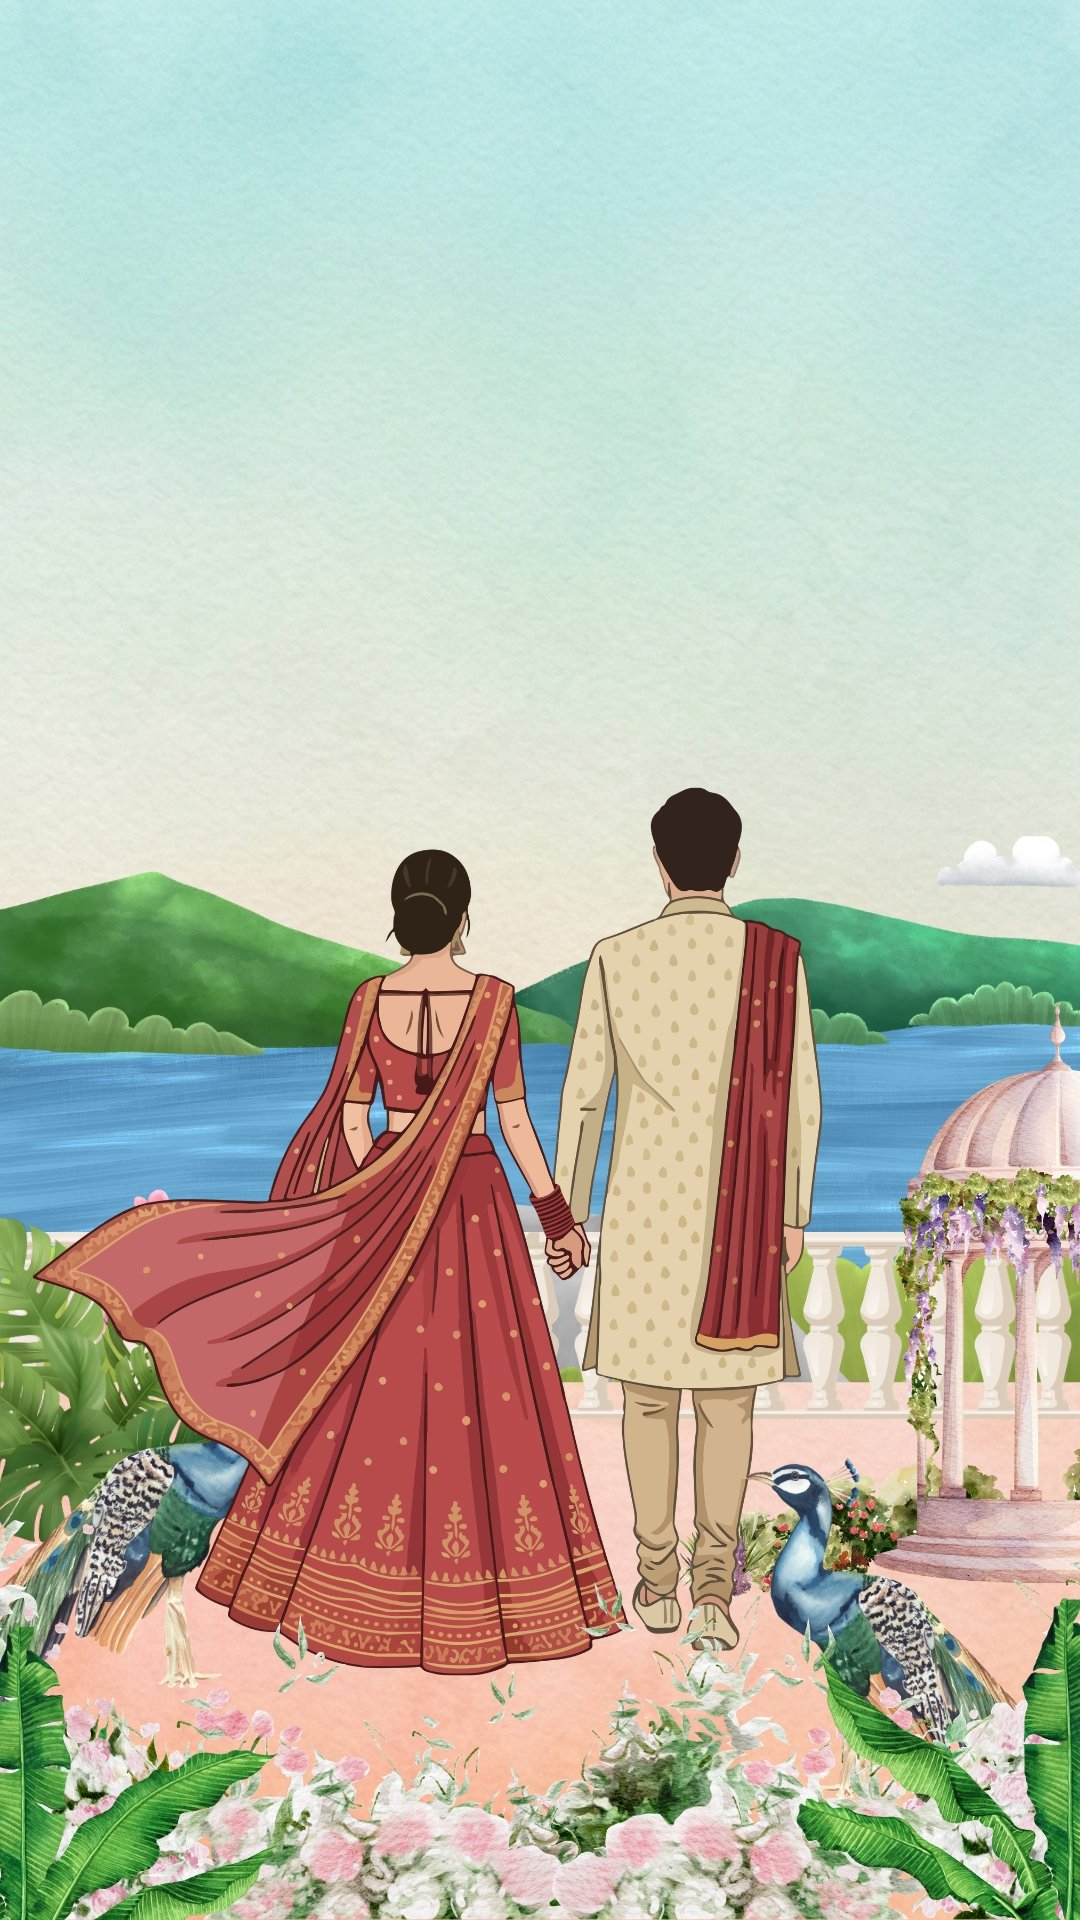
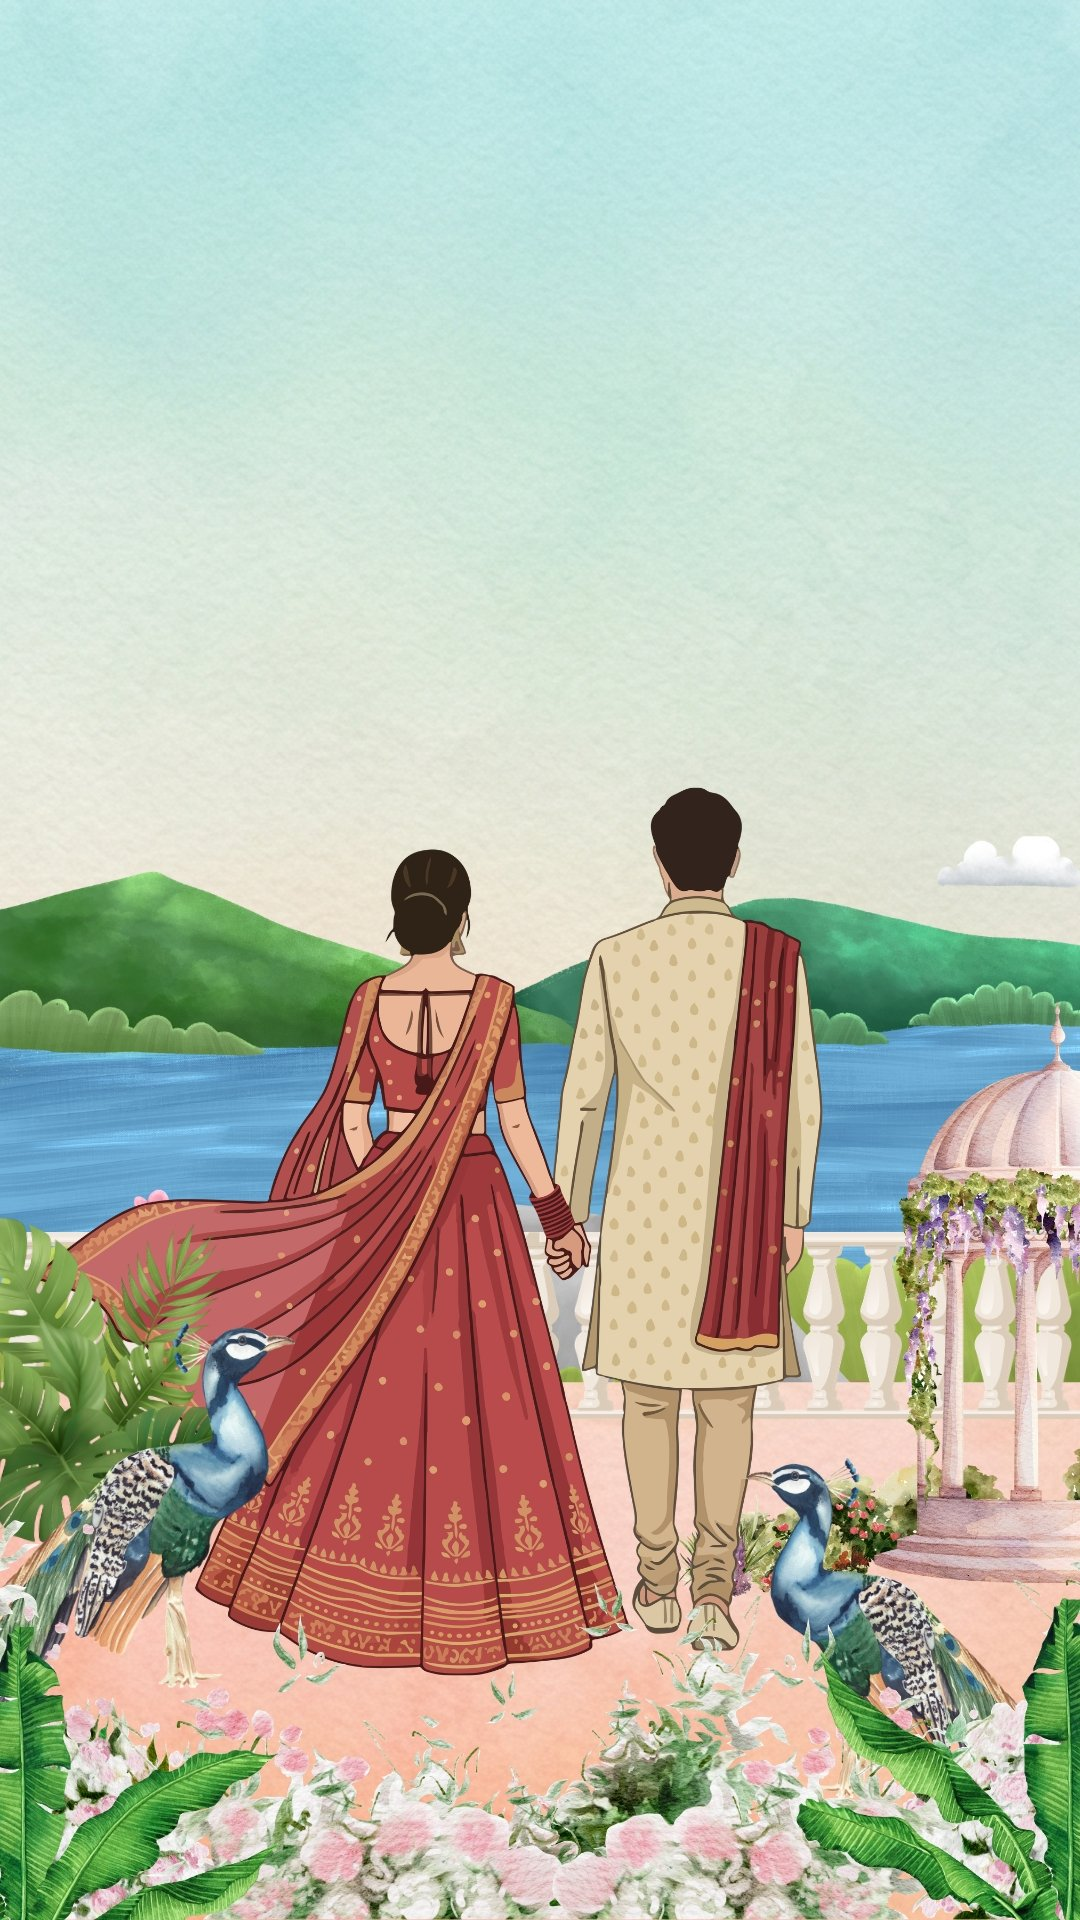
Keep door videos muted, use bg music for the whole door+hero sequence
The door videos' own audio cut out abruptly the instant the video
ended, which made the door->hero handoff audibly obvious even with the
visual transition now seamless. Both door-closed and door-open videos
stay muted throughout; background music instead starts on the
visitor's first gesture (was previously only started in finishReveal)
and plays continuously across the whole door + hero sequence, so
there's one unbroken audio track instead of a cut.

Also recompress couple-hero.jpg (re-synced uncompressed at 1.39MB,
same photo — back down to ~360KB).

Changed region(s): [[0.0306, 0.625, 0.275, 0.7812]]

diff --git a/js/main.js b/js/main.js
@@ -16,22 +16,25 @@ document.addEventListener('DOMContentLoaded', () => {
 
   let doorOpened = false;
 
-  // browsers block unmuted autoplay, so the closed-door video starts muted —
-  // unmute it as soon as the visitor makes their first gesture (first tap of the double-tap).
-  // Different browsers only treat certain event types as a valid "user gesture" for audio
-  // (iOS Safari in particular can ignore pointerdown), so listen on several and let the
-  // first one that fires do the work; the guard makes the rest no-ops.
-  let closedUnmuted = false;
-  function unmuteClosedDoor(){
-    if (closedUnmuted || doorOpened) return;
-    closedUnmuted = true;
-    closedVideo.muted = false;
-    closedVideo.volume = 1;
-    const p = closedVideo.play();
-    if (p) p.catch(() => {});
+  // Both door videos stay muted throughout (they keep their `muted` attribute
+  // from the markup — nothing here unmutes them). Playing their own audio
+  // would cut out abruptly the moment the video ends, which made the
+  // door->hero handoff sound obviously stitched together even after the
+  // visual transition became seamless. Instead the background music starts
+  // on the visitor's first gesture and plays continuously through the whole
+  // door + hero experience, so there's one unbroken audio track and no seam.
+  // Several event types are listened for since not all of them count as a
+  // valid "user gesture" for audio on every browser (iOS Safari in
+  // particular can ignore pointerdown) — the guard makes the rest no-ops.
+  let bgMusicStarted = false;
+  function startBgMusic(){
+    if (bgMusicStarted || !bgMusic) return;
+    bgMusicStarted = true;
+    bgMusic.volume = 0.55;
+    bgMusic.play().then(() => setMusicIcon(true)).catch(() => setMusicIcon(false));
   }
   ['pointerdown','touchstart','mousedown','click'].forEach(evt => {
-    doorScreen.addEventListener(evt, unmuteClosedDoor, { once:true, passive:true });
+    doorScreen.addEventListener(evt, startBgMusic, { once:true, passive:true });
   });
 
   function openDoor(){
@@ -40,22 +43,12 @@ document.addEventListener('DOMContentLoaded', () => {
 
     doorScreen.classList.add('knocked');
 
-    // swap videos
+    // swap videos (both stay muted — see startBgMusic above)
     closedVideo.classList.remove('active');
     openVideo.classList.add('active');
     openVideo.currentTime = 0;
-
-    // unmute here, inside the user gesture, so a knock/creak sound (if present) can play
-    openVideo.muted = false;
-    let playPromise = openVideo.play();
-    if (playPromise) {
-      playPromise.catch(() => {
-        // some browsers block unmuted autoplay even inside a gesture — retry muted
-        openVideo.muted = true;
-        const retry = openVideo.play();
-        if (retry) retry.catch(() => finishReveal());
-      });
-    }
+    const playPromise = openVideo.play();
+    if (playPromise) playPromise.catch(() => {});
 
     // safety fallback in case 'ended' never fires (video missing, etc.)
     const fallbackTimer = setTimeout(finishReveal, 6000);
@@ -81,15 +74,8 @@ document.addEventListener('DOMContentLoaded', () => {
     mainSite.classList.add('revealed');
     document.body.style.overflow = 'auto';
 
-    // try to start background music (user gesture already happened via the tap)
-    if (bgMusic) {
-      bgMusic.volume = 0.55;
-      bgMusic.play().then(() => {
-        setMusicIcon(true);
-      }).catch(() => {
-        setMusicIcon(false);
-      });
-    }
+    // fallback in case the gesture-triggered start above never fired
+    startBgMusic();
   }
 
   // lock scroll until door opens
